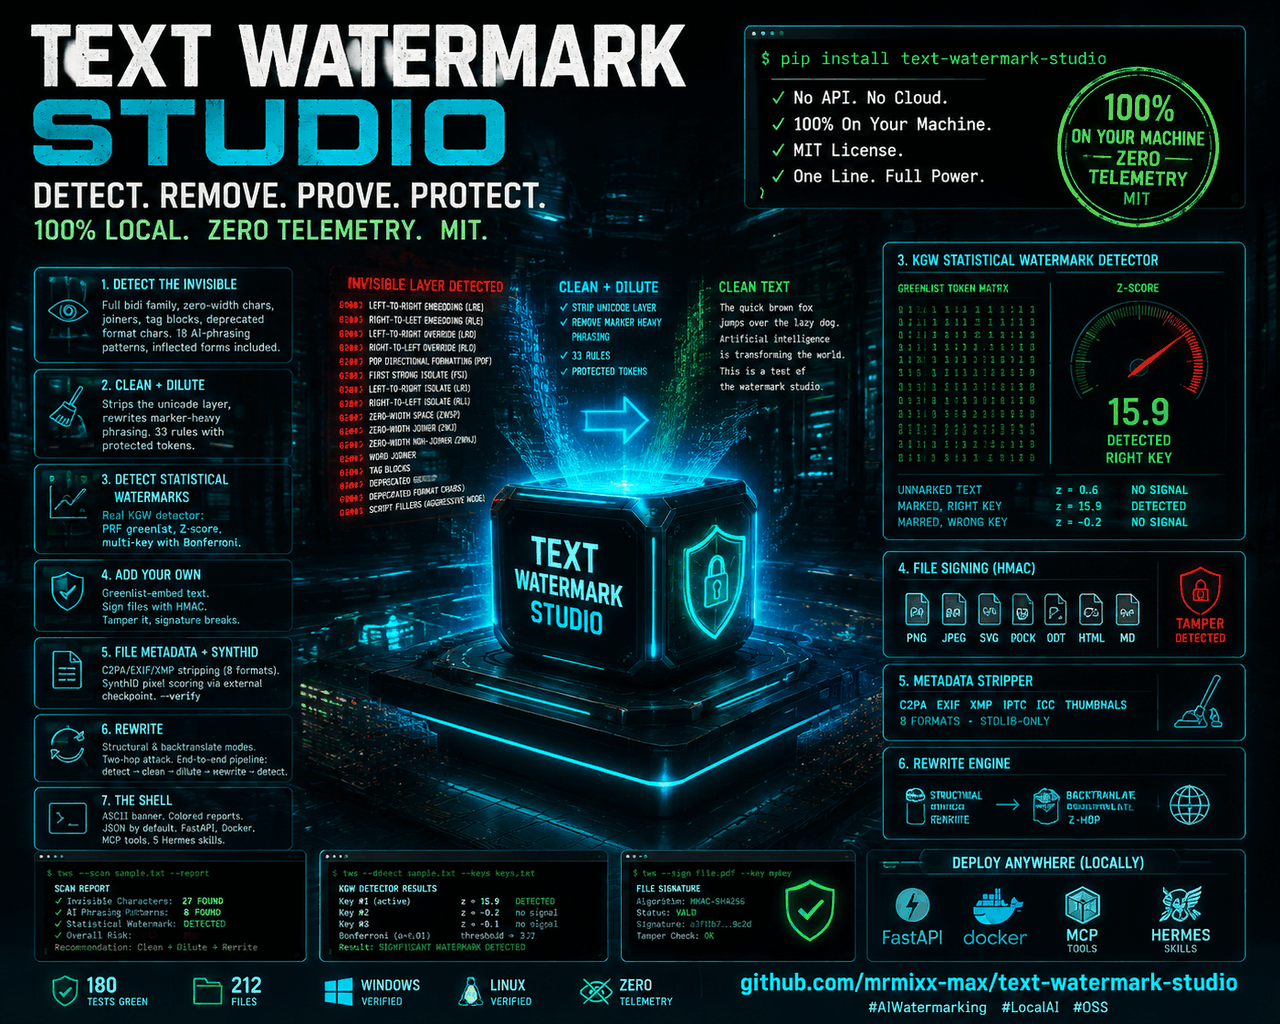
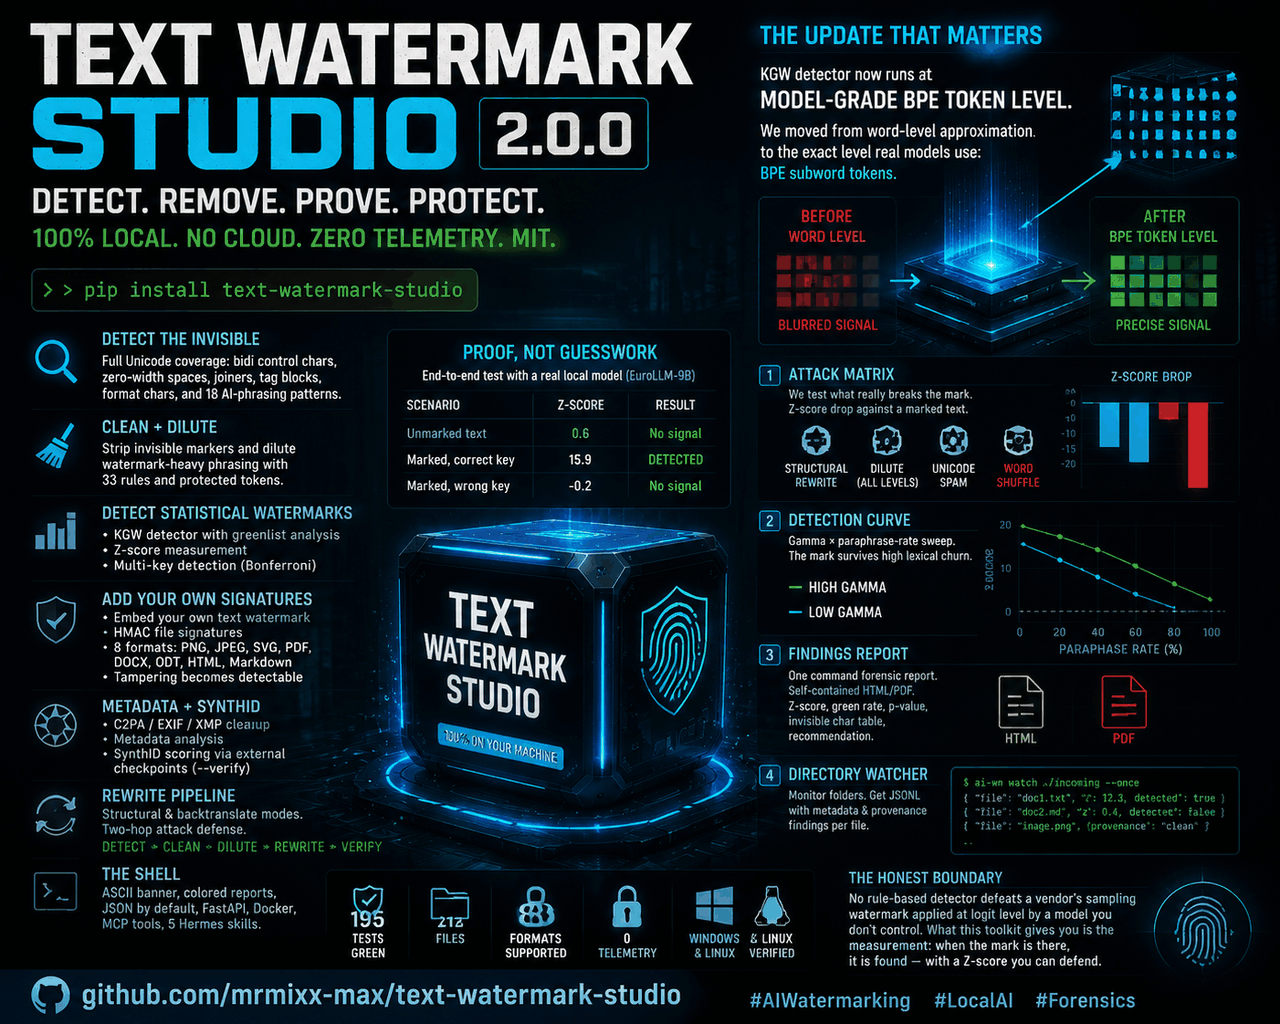
docs: v2.0.0 hero infographic (BPE token level, attack matrix) as primary README image

diff --git a/README.md b/README.md
@@ -4,7 +4,7 @@
 ![Release](https://github.com/mrmixx-max/text-watermark-studio/actions/workflows/release.yml/badge.svg)
 ![License: MIT](https://img.shields.io/badge/License-MIT-yellow.svg)
 
-![Text Watermark Studio — detect, remove, prove, protect. 100% local, zero telemetry, MIT.](docs/tws-infographic.png)
+![Text Watermark Studio 2.0.0 — detect, remove, prove, protect. BPE token level. 100% local, no cloud, zero telemetry, MIT.](docs/tws-infographic.png)
 
 Text Watermark Studio v1.0.0 adds a taxonomy-driven watermarking lab with plugin families for Unicode, lexical, syntactic, format/layout, sampling/logit bias, semantic/structure, localized provenance and training-time ownership workflows. Installable: `pip install text-watermark-studio`.
 
